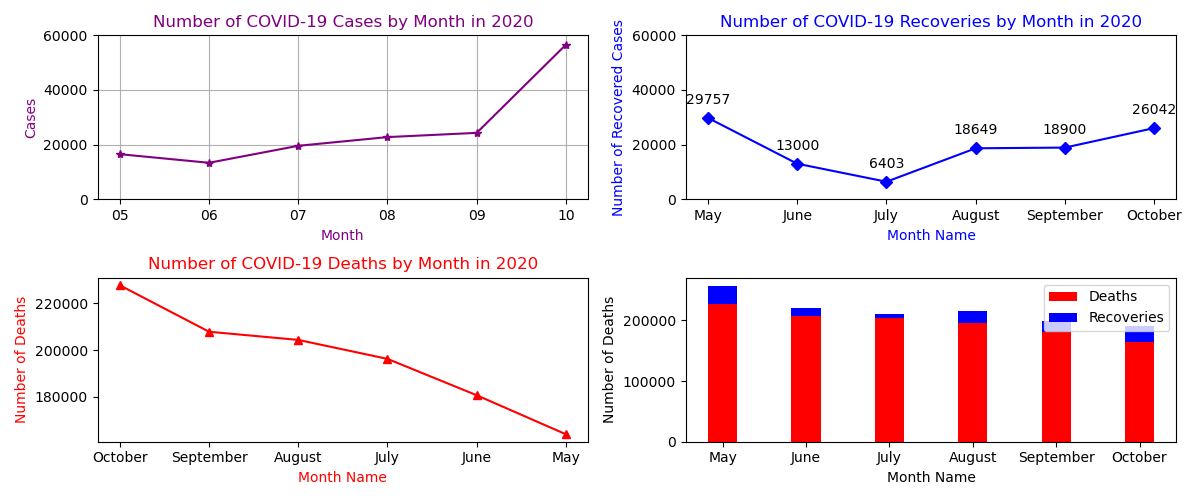
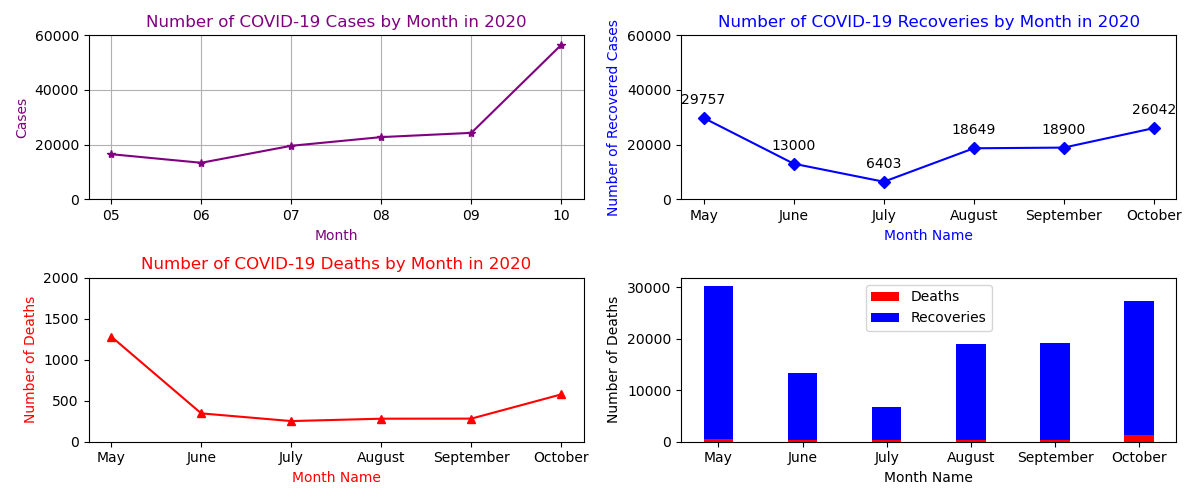
changing description

diff --git a/calculations.py b/calculations.py
@@ -59,7 +59,7 @@ def recovered_dictionary(cur, conn):
     return d
 
 def death_dictionary(cur, conn):
-        ''' This function takes cur and conn as parameters. It fetches distinct months 
+    ''' This function takes cur and conn as parameters. It fetches distinct months 
     from the death table and adds them to a list. It then adds up the total new
     death confirmed cases for each month, and adds the month to a dictionary as a key, and 
     the total number of confirmed deaths for that month as the value. It returns this dictionary. '''
@@ -105,7 +105,7 @@ def write_calculations(filename, d, data, dic):
 
 def graphs(cases_data,recov_d, death_d):
     '''takes 3 dictionaries as input, each have the month as they key, and the value as the total for that month'''
-    '''the function creates 3 subplots displayed in 2 columns, 2 rows'''
+    '''the function creates 4 subplots displayed in 2 columns, 2 rows'''
     '''the function doesn't return anything but it shows the graphs and saves them as a png to COVID_graphs.png'''
 
     fig = plt.figure(figsize=(12,5))
@@ -166,11 +166,8 @@ def graphs(cases_data,recov_d, death_d):
     deaths.set_xlabel('Month Name', color='red')
     deaths.set_ylabel('Number of Deaths', color='red')
     deaths.set_title('Number of COVID-19 Deaths by Month in 2020', color='red')
-<<<<<<< HEAD
-    # deaths.set_ylim(0,60000)
-=======
     deaths.set_ylim(0,2000)
->>>>>>> f05373236714fac1d352c1e924814a56355c456c
+
 
 
 
